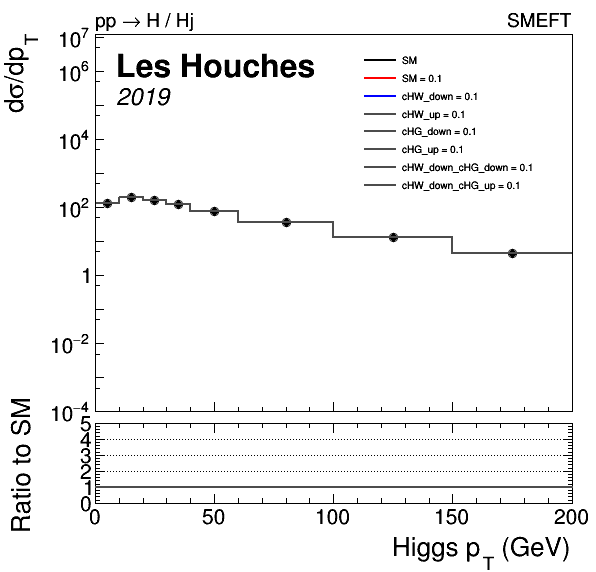
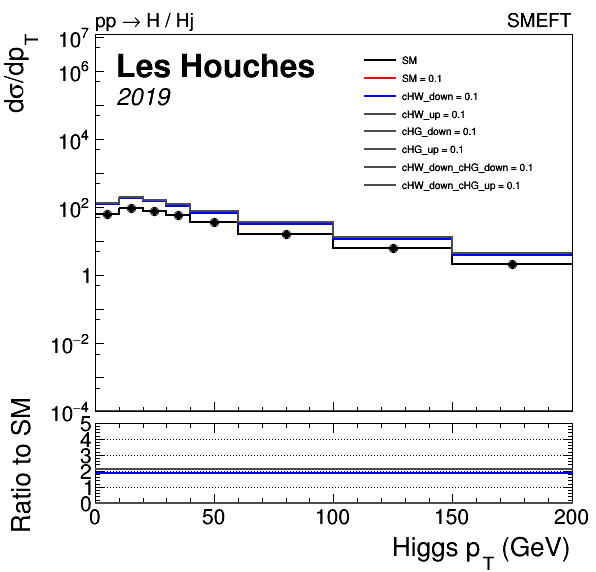
changes. working.

Changed region(s): [[0.151, 0.8024, 0.9664, 0.8916], [0.151, 0.3269, 0.755, 0.4458], [0.755, 0.4161, 0.9664, 0.4755]]

diff --git a/cards/ggF_SMEFT/makeRwgtCard.py b/cards/ggF_SMEFT/makeRwgtCard.py
@@ -5,9 +5,9 @@ params={}
 
 #default, down, up
 #params['cH'] =(0.,-1.E-4,1.E-4)
-params['cG'] =(0.,-1.E-2,1.E-2)
-params['cGtil'] =(0.,-1.E-2,1.E-2)
-#params['cHG'] =(0.,-1.E-4,1.E-4)
+#params['cG'] =(0.,-1,1)
+#params['cGtil'] =(0.,-1,1)
+params['cHG'] =(0,-1,1)
 #params['cHW'] =(0.,-1.E-4,1.E-4)
 
 ################## END CONFIGURATION #######
